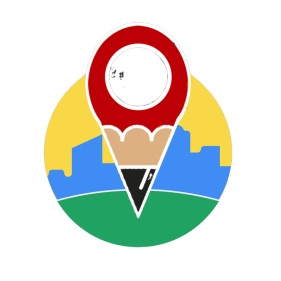
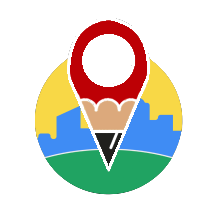
tela de cadastro de filho

diff --git a/src/screens/Register.jsx b/src/screens/Register.jsx
@@ -1,13 +1,10 @@
 import { Center, Text, VStack } from "native-base";
 import { Input } from "../components/Input";
 import { Button } from "../components/Button";
-// import { useAuth } from "../hooks/useAuth";
 import { useState } from "react";
 
 export function Register() {
-    // const {signIn, user} = useAuth();
     const [name, setName] = useState();
-    const [password, setPassword] = useState();
 
     return (
         <VStack flex={1} bgColor='black.900'>
@@ -23,22 +20,18 @@ export function Register() {
                     Cadastro de filho
                 </Text>
                 <Input
-                    mb={2}
-                    mt={2}
-                    placeholder="Name"
+                    mb={4}
+                    mt={4}
+                    placeholder="Informe o nome do seu filho"
                     onChangeText={setName}
                     value={name}
-                />
-                <Input
-                    mt={2}
-                    mb={4}
-                    placeholder="Senha"
-                    onChangeText={setPassword}
-                    value={password}
                 />
                 <Button 
                     title="Cadastrar"
                 />
+                <Text color="white" textAlign="center" mt={4} fontFamily="regular" fontSize="md"> 
+                    Após o cadastro o seu filho somente poderá ser retirado através da opção "Retirada".
+                </Text>
             </Center>
         </VStack >
     )

diff --git a/src/screens/Login.jsx b/src/screens/Login.jsx
@@ -16,7 +16,7 @@ export function Login() {
     return (
         <VStack flex={1} bgColor='gray.900'>
             <Center bgColor='black.600' p={8}>
-                <Image source={require('../assets/image1.png')}/>
+                <Image source={require('../assets/image2.png')}/>
             </Center>
             <Center p={7}>
                 <Text
